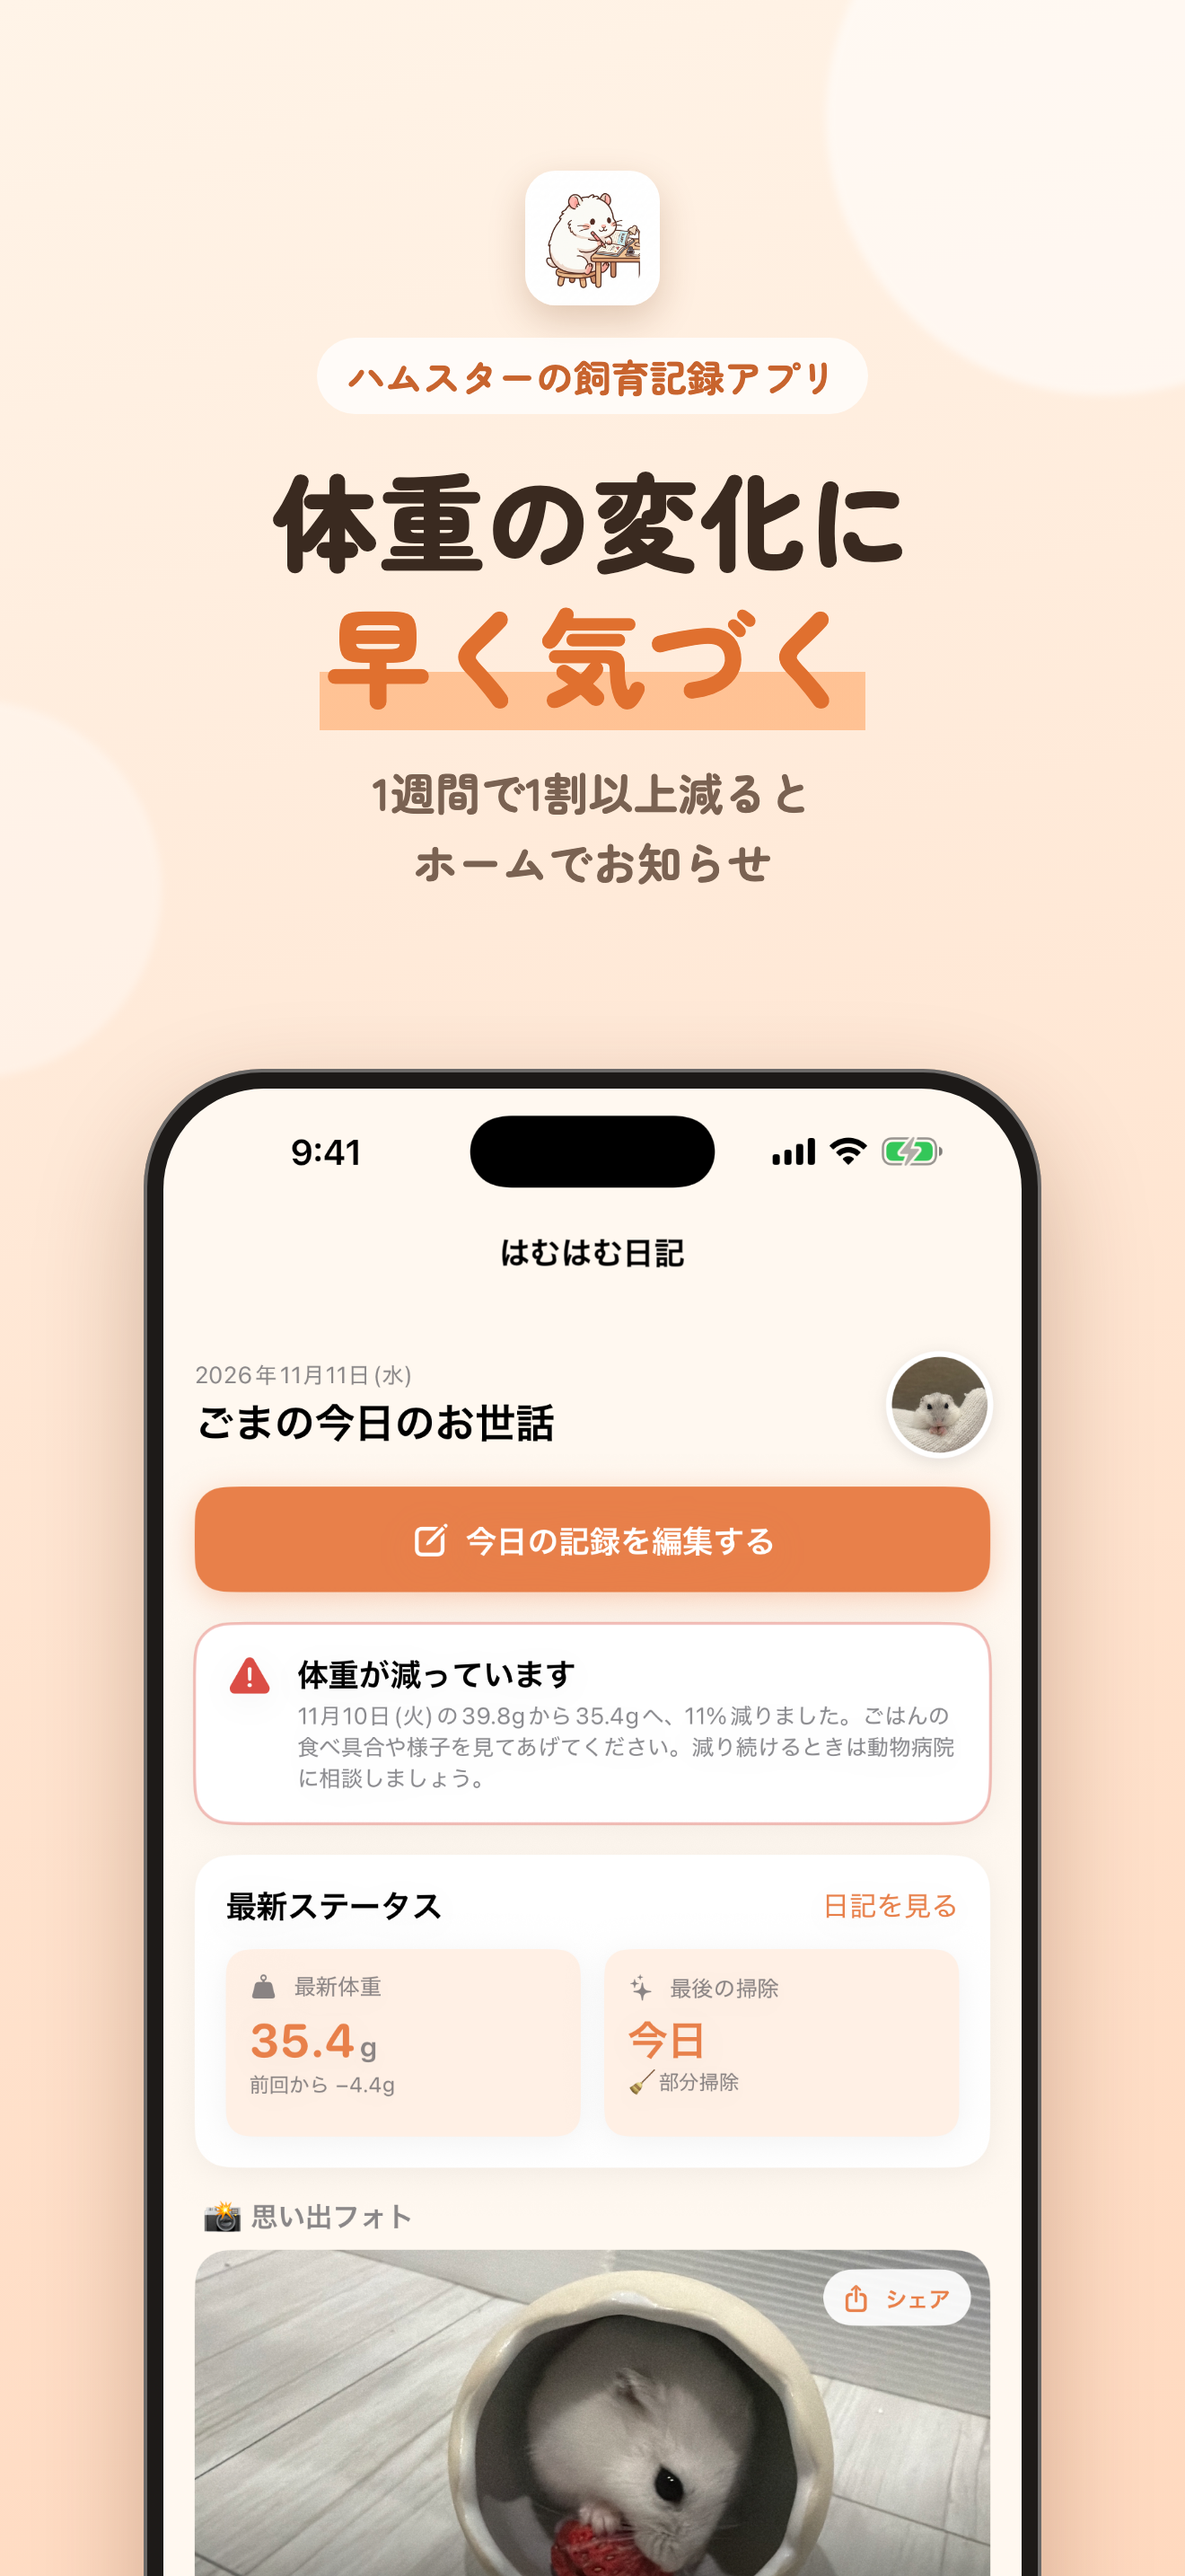
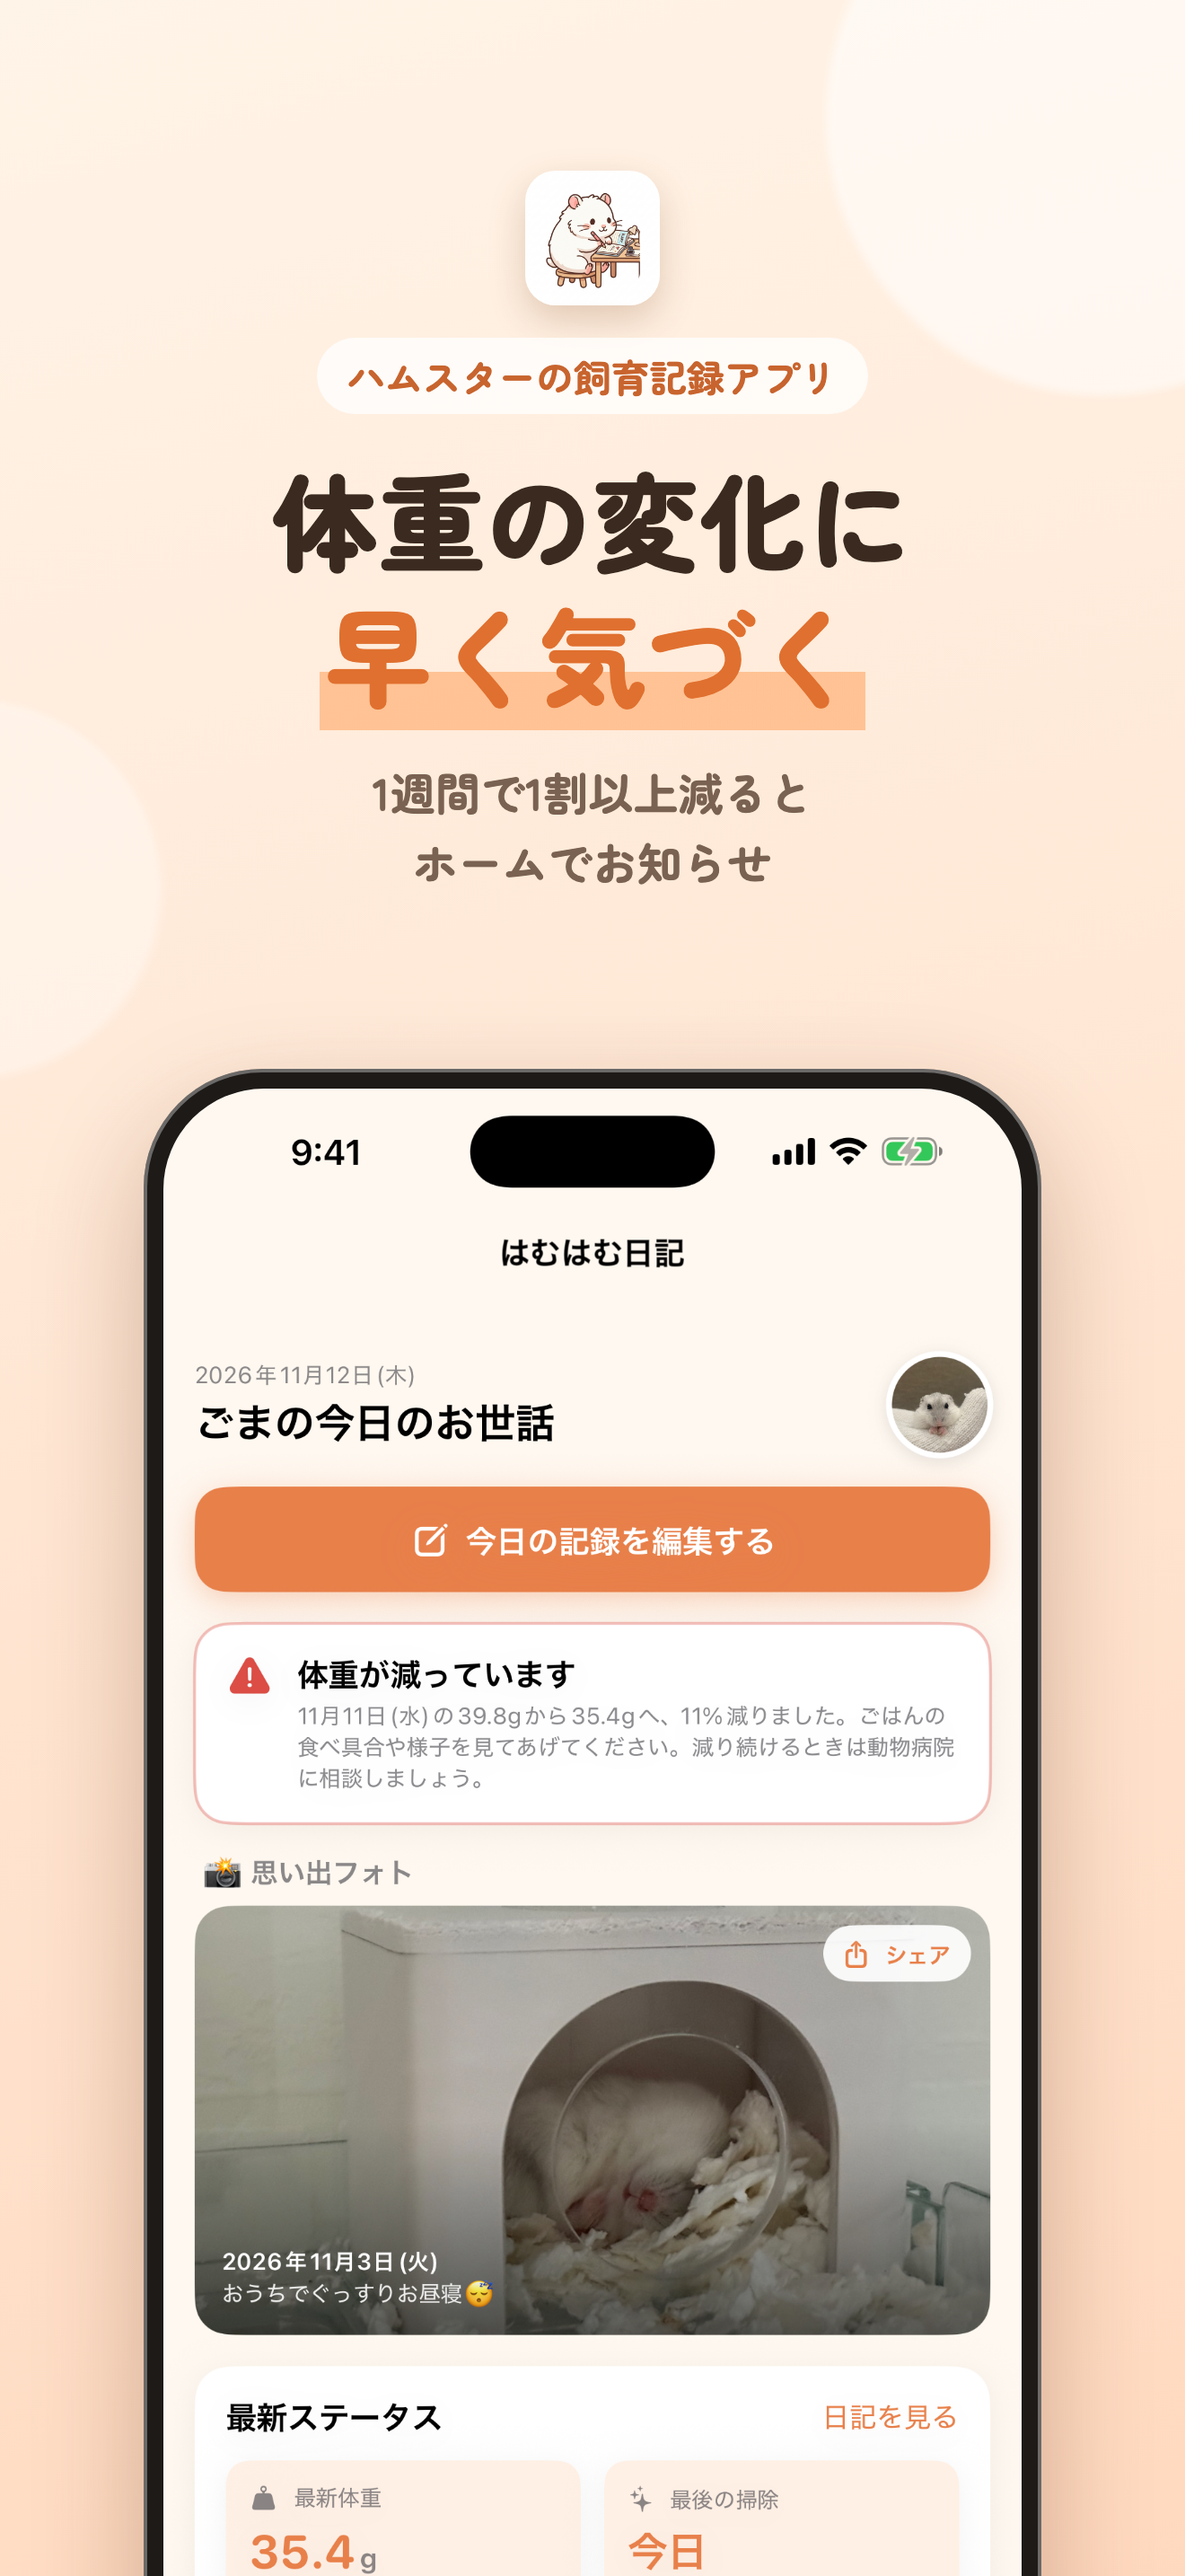
HamuhamuDiary: ストアの スクショの ホーム画面を 2.2 の 並び（思い出フォトが 上）で 撮りなおす
B 案の 切り出しは 位置が 固定なので、前の ホーム画面を home-status.png として 残して 使う。

diff --git a/Apps/HamuhamuDiary/Store/screenshots/generate.py b/Apps/HamuhamuDiary/Store/screenshots/generate.py
@@ -175,8 +175,9 @@ def render(slide: dict, out: pathlib.Path) -> None:
         ),
         visual=(
             f'<div class="photo"><img src="{(PHOTOS / slide["photo"]).as_uri()}"></div>'
-            # 写真だけだとアプリの画面が写らないので、ホームの「最新ステータス」を切り出して重ねる
-            f'<div class="ui"><img src="{(SRC / "home.png").as_uri()}"></div>'
+            # 写真だけだとアプリの画面が写らないので、ホームの「最新ステータス」を切り出して重ねる。
+            # 切り出し位置は固定なので、最新ステータスが思い出フォトの上にあった頃（2.1.4）の画面を使う。
+            f'<div class="ui"><img src="{(SRC / "home-status.png").as_uri()}"></div>'
             if slide.get("photo")
             else f'<div class="phone"><img src="{(SRC / slide["shot"]).as_uri()}"></div>'
         ),
